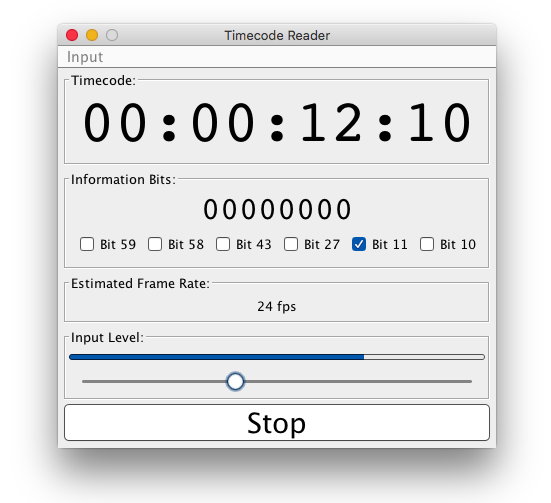
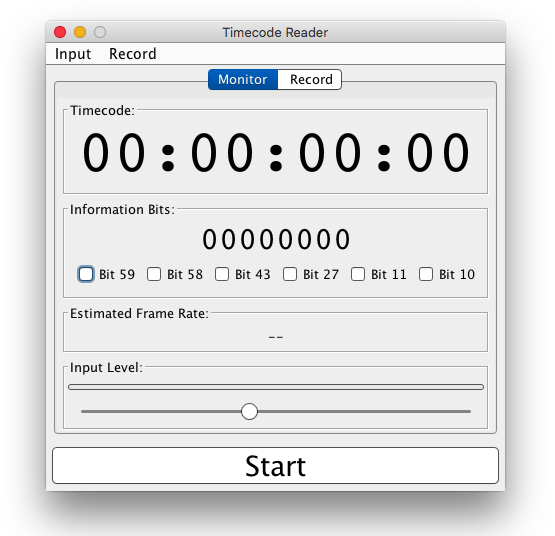
Added "Record" feature

Changed region(s): [[0.0617, 0.0298, 0.9256, 0.9841]]

diff --git a/src/TimecodeReader.java b/src/TimecodeReader.java
@@ -1,25 +1,30 @@
 import javax.sound.sampled.*;
 import javax.swing.*;
 import javax.swing.border.Border;
+import javax.swing.filechooser.FileNameExtensionFilter;
 import java.awt.*;
 import java.awt.event.*;
 import java.io.*;
+import java.nio.charset.StandardCharsets;
 import java.util.*;
 import java.util.List;
 import java.util.prefs.Preferences;
 
 import static javax.swing.JOptionPane.showMessageDialog;
 
-// Reference: https://en.wikipedia.org/wiki/Linear_timecode
+  // Reference: https://en.wikipedia.org/wiki/Linear_timecode
 
 public class TimecodeReader extends JFrame implements Runnable {
   private transient Preferences   prefs = Preferences.userRoot().node(this.getClass().getName());
   private boolean                 running, displaying;
   private final JButton           capture;
   private final TimeCode          timecode;
-  private JMenu                   inputMenu;
+  private final JTextArea         timecodeLog;
+  private JMenu                   inputMenu, recordMenu;
   private InputSource             selectedInput;
   private Thread                  runThread;
+  private String                  recordWhat = "None";
+  private boolean                 recording;
 
   private class TimeCode extends JPanel implements Runnable {
     private static final int      SYNC = 0xBFFC;
@@ -355,8 +360,29 @@ public class TimecodeReader extends JFrame implements Runnable {
               Integer.toString(frmTens) +
               Integer.toString(frmUnits);
       timeView.setText(buf);
+      switch (recordWhat) {
+        case "Timecode":
+          timecodeLog.append(buf + "\n");
+          break;
+        case "TC + Raw Frame":
+          timecodeLog.append(buf + " - ");
+        case "Raw Frame":
+          StringBuilder hex = new StringBuilder();
+          hex.append(toHex(frame[3])).append(':').append(toHex(frame[2])).append(':');
+          hex.append(toHex(frame[1])).append(':').append(toHex(frame[0])).append('\n');
+          timecodeLog.append(hex.toString());
+          break;
+      }
       repaint();
     }
+  }
+
+  private String toHex (int val) {
+    StringBuilder buf = new StringBuilder(Integer.toHexString(val));
+    while (buf.length() < 8) {
+      buf.insert(0, '0');
+    }
+    return buf.toString();
   }
 
   public void run () {
@@ -390,7 +416,16 @@ public class TimecodeReader extends JFrame implements Runnable {
     super("Timecode Reader");
     setDefaultCloseOperation(WindowConstants.EXIT_ON_CLOSE);
     setLayout(new BorderLayout());
-    add(timecode = new TimeCode(), BorderLayout.CENTER);
+    JTabbedPane tabs = new JTabbedPane();
+    tabs.addTab("Monitor", timecode = new TimeCode());
+    JPanel recFrame = new JPanel(new BorderLayout());
+    Border gap = BorderFactory.createEmptyBorder(4, 4, 0, 4);
+    recFrame.setBorder( BorderFactory.createEmptyBorder(4, 4, 4, 4));
+    recFrame.add( new JScrollPane(timecodeLog = new JTextArea()), BorderLayout.CENTER);
+    tabs.addTab("Record", recFrame);
+    timecodeLog.setFont(new Font("Monaco", Font.PLAIN, 12));
+    timecodeLog.setMargin(new Insets(1, 3, 1, 3));
+    add(tabs, BorderLayout.CENTER);
     JPanel buttonPanel =  new JPanel(new BorderLayout());
     buttonPanel.setBorder(BorderFactory.createEmptyBorder(0, 4, 4, 4));
     buttonPanel.add(capture = new JButton("Start"), BorderLayout.CENTER);
@@ -422,6 +457,10 @@ public class TimecodeReader extends JFrame implements Runnable {
         running = false;
         displaying = false;
         inputMenu.setEnabled(true);
+        recordMenu.setEnabled(true);
+        if (recording) {
+          timecodeLog.append("Stopped\n");
+        }
       } else {
         // Start input capture
         if (selectedInput != null) {
@@ -429,6 +468,7 @@ public class TimecodeReader extends JFrame implements Runnable {
           capture.setText("Stop");
           displaying = true;
           inputMenu.setEnabled(false);
+          recordMenu.setEnabled(false);
         } else {
           // Just in case
           showMessageDialog(this, "Select Input Source", "Error", JOptionPane.PLAIN_MESSAGE, null);
@@ -439,7 +479,7 @@ public class TimecodeReader extends JFrame implements Runnable {
     JMenuBar menuBar = new JMenuBar();
     setJMenuBar(menuBar);
     // Add "Input" menu
-    ButtonGroup group = new ButtonGroup();
+    ButtonGroup inGroup = new ButtonGroup();
     boolean hasInput = false;
     for (InputSource source : getInputSources(new AudioFormat(22050, 16, 1, true, true))) {
       String input = source.mixerInfo.getName().trim();
@@ -452,7 +492,7 @@ public class TimecodeReader extends JFrame implements Runnable {
       mItem.setToolTipText(source.mixerInfo.getVendor());
       hasInput |= inputSelected;
       inputMenu.add(mItem);
-      group.add(mItem);
+      inGroup.add(mItem);
       mItem.addActionListener(ev -> {
         String name = ev.getActionCommand();
         selectedInput = source;
@@ -463,6 +503,50 @@ public class TimecodeReader extends JFrame implements Runnable {
     }
     capture.setEnabled(hasInput);
     menuBar.add(inputMenu);
+    // Add "Record" Menu
+    recordMenu = new JMenu("Record");
+    menuBar.add((recordMenu));
+    ButtonGroup recGroup = new ButtonGroup();
+    recordWhat = prefs.get("record.type", recordWhat);
+    recording = !recordWhat.equals("None");
+    for (String recType : new String[] {"None", "Timecode", "Raw Frame", "TC + Raw Frame"}) {
+      boolean inputSelected = recType.equals(recordWhat);
+      JRadioButtonMenuItem mItem = new JRadioButtonMenuItem(recType, inputSelected);
+      recordMenu.add(mItem);
+      recGroup.add(mItem);
+      mItem.addActionListener(ev -> {
+        String name = ev.getActionCommand();
+        recordWhat = recType;
+        prefs.put("record.type", name);
+        recording = !name.equals("None");
+      });
+    }
+    recordMenu.addSeparator();
+    JMenuItem recClear = new JMenuItem("Clear Recording");
+    recClear.addActionListener(ex -> {
+      timecodeLog.setText("");
+    });
+    recordMenu.add(recClear);
+    // Add "Save Recording As..." Menu Item
+    recordMenu.addSeparator();
+    JMenuItem saveAs = new JMenuItem("Save Recording As...");
+    recordMenu.add(saveAs);
+    saveAs.addActionListener(e -> {
+      JFileChooser fc = new JFileChooser();
+      fc.setSelectedFile(new File(prefs.get("default.dir", "/")));
+      if (fc.showSaveDialog(this) == JFileChooser.APPROVE_OPTION) {
+        File sFile = fc.getSelectedFile();
+        if (sFile.exists()) {
+          if (JOptionPane.showConfirmDialog(this, "Overwrite Existing file?", "Warning", JOptionPane.YES_NO_OPTION,
+                                            JOptionPane.WARNING_MESSAGE) == JOptionPane.OK_OPTION) {
+            saveFile(sFile, timecodeLog.getText());
+          }
+        } else {
+          saveFile(sFile, timecodeLog.getText());
+        }
+        prefs.put("default.dir", sFile.getAbsolutePath());
+      }
+    });
     // Track window move events and save in prefs
     addComponentListener(new ComponentAdapter() {
       public void componentMoved (ComponentEvent ev)  {
@@ -476,6 +560,16 @@ public class TimecodeReader extends JFrame implements Runnable {
     pack();
     setResizable(false);
     setVisible(true);
+  }
+
+  static void saveFile (File file, String text) {
+    try {
+      FileOutputStream out = new FileOutputStream(file);
+      out.write(text.getBytes(StandardCharsets.UTF_8));
+      out.close();
+    } catch (IOException ex) {
+      ex.printStackTrace();
+    }
   }
 
   static class InputSource {

diff --git a/README.md b/README.md
@@ -4,6 +4,8 @@
 
 **`TimecodeReader`** can read an audio input signal using either a microphone, or line-level input and decode [SMPTE/EBU Timecode](http://www.philrees.co.uk/articles/timecode.htm) in real time.  Use the "**Input**" menu to select the source of the signal and then press "**Start**" to begin realtime timecode decoding and display.  Then, adjust the "**Input Level**" slider to keep the bar graph within a reasonable range. If you're using a microphone input, you may also need to use an audio attenuator cable to reduce the signal level and avoid overdriving the input.
 
-The checkboxes in the "**Information Bits**" section display the settings of some special "**Flag**" bits included in each frame of the timecode stream.  These are used to provide additional information for advanced users, but the meaing of these bits has evolved over time and also depends on the timecode frame rate, so [check this reference](https://en.wikipedia.org/wiki/Linear_timecode) for more info on what these bits mean, or hover or each checkbox to display some brief tooltip text.  The line of 8 digits above the checkboxes display the value of some additional special bits called "**User**" bits which are normally used to record an 8 digit BCD number for purposes such as recording date, scene, or take information.  The "**Estimated Frame Rate**" field tries to estimate the frame rate by watching for the maximum frame number between sucessive seconds and displaying the value + 1.  
+The checkboxes in the "**Information Bits**" section display the settings of some special "**Flag**" bits included in each frame of the timecode stream.  These are used to provide additional information for advanced users, but the meaing of these bits has evolved over time and also depends on the timecode frame rate, so [check this reference](https://en.wikipedia.org/wiki/Linear_timecode) for more info on what these bits mean, or hover or each checkbox to display some brief tooltip text.  The line of 8 digits above the checkboxes display the value of some additional special bits called "**User**" bits which are normally used to record an 8 digit BCD number for purposes such as recording date, scene, or take information.  The "**Estimated Frame Rate**" field tries to estimate the frame rate by watching for the maximum frame number between sucessive seconds and displaying the value + 1.
+
+Using the "**Record**" menu you can configure **`TimecodeReader`** to capture and record decoded timecode, raw timecode frames, or both to the "Record" tab and then save this text to a file.  Thsi feature was added to aid evaluation and comparison of various timecode generators and enable analysis of their outputs.
 
 For your convenience, an executable .jar file for **`TimecodeReader`** can be [downloaded here](https://github.com/wholder/TimecodeReader/tree/master/out/artifacts/TimecodeReader_jar).  On most systems you can run the .jar file by double clicking it to launch.  Note: on OSX, you may need to [right click and select "Open"](https://support.apple.com/kb/PH25088?locale=en_US) the first time you run the program.
